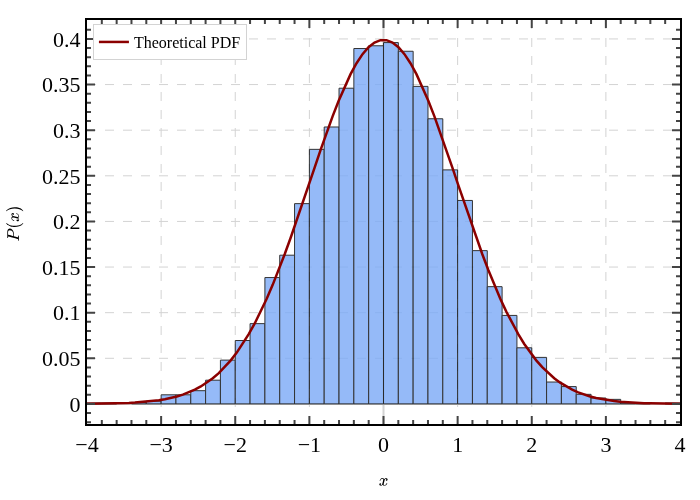
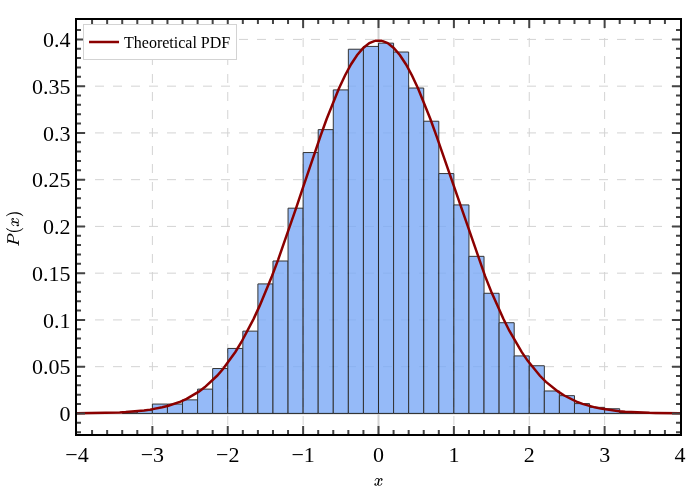
feat: Add APS style and example
- Added `aps` style handling in `plotly_science_plots.py`
- Implemented `color="black"` and `title_standoff=5` for APS plots
- Added `aps` to styles list in `README.md`
- Created `aps.png` via updated `__main__` example
- Fixed escape sequence warnings in earlier string definitions using `r` prefix

diff --git a/plotly_science_plots.py b/plotly_science_plots.py
@@ -111,8 +111,8 @@ def apply_science_style(fig, style_name, palette='science', grid=False, legend_p
             margin=dict(l=40, r=20, t=20, b=40)
         )
         # Update grids to match typical APS style (lighter dashed grid)
-        fig.update_xaxes(gridcolor='lightgrey', zerolinecolor='lightgrey')
-        fig.update_yaxes(gridcolor='lightgrey', zerolinecolor='lightgrey')
+        fig.update_xaxes(gridcolor='lightgrey', zerolinecolor='lightgrey', title_standoff=5)
+        fig.update_yaxes(gridcolor='lightgrey', zerolinecolor='lightgrey', title_standoff=5)
 
 
 if __name__ == '__main__':
